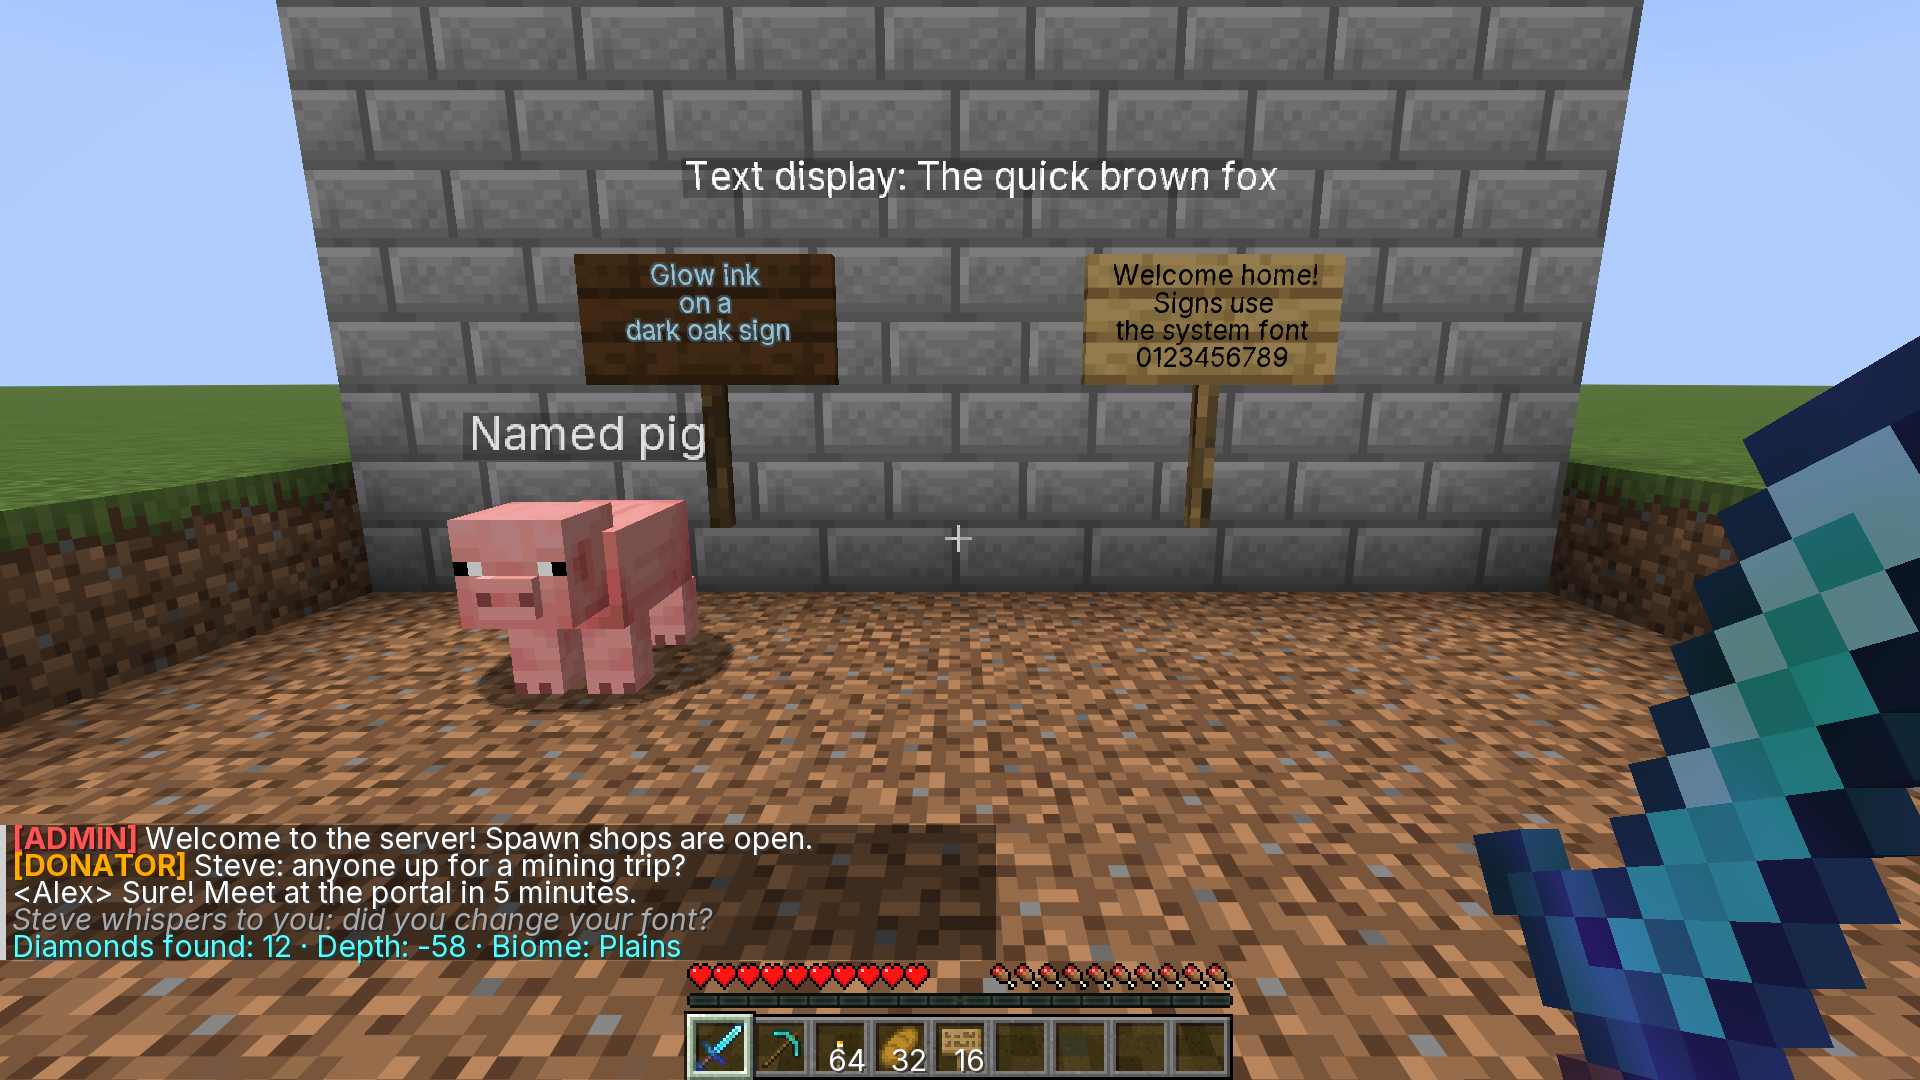
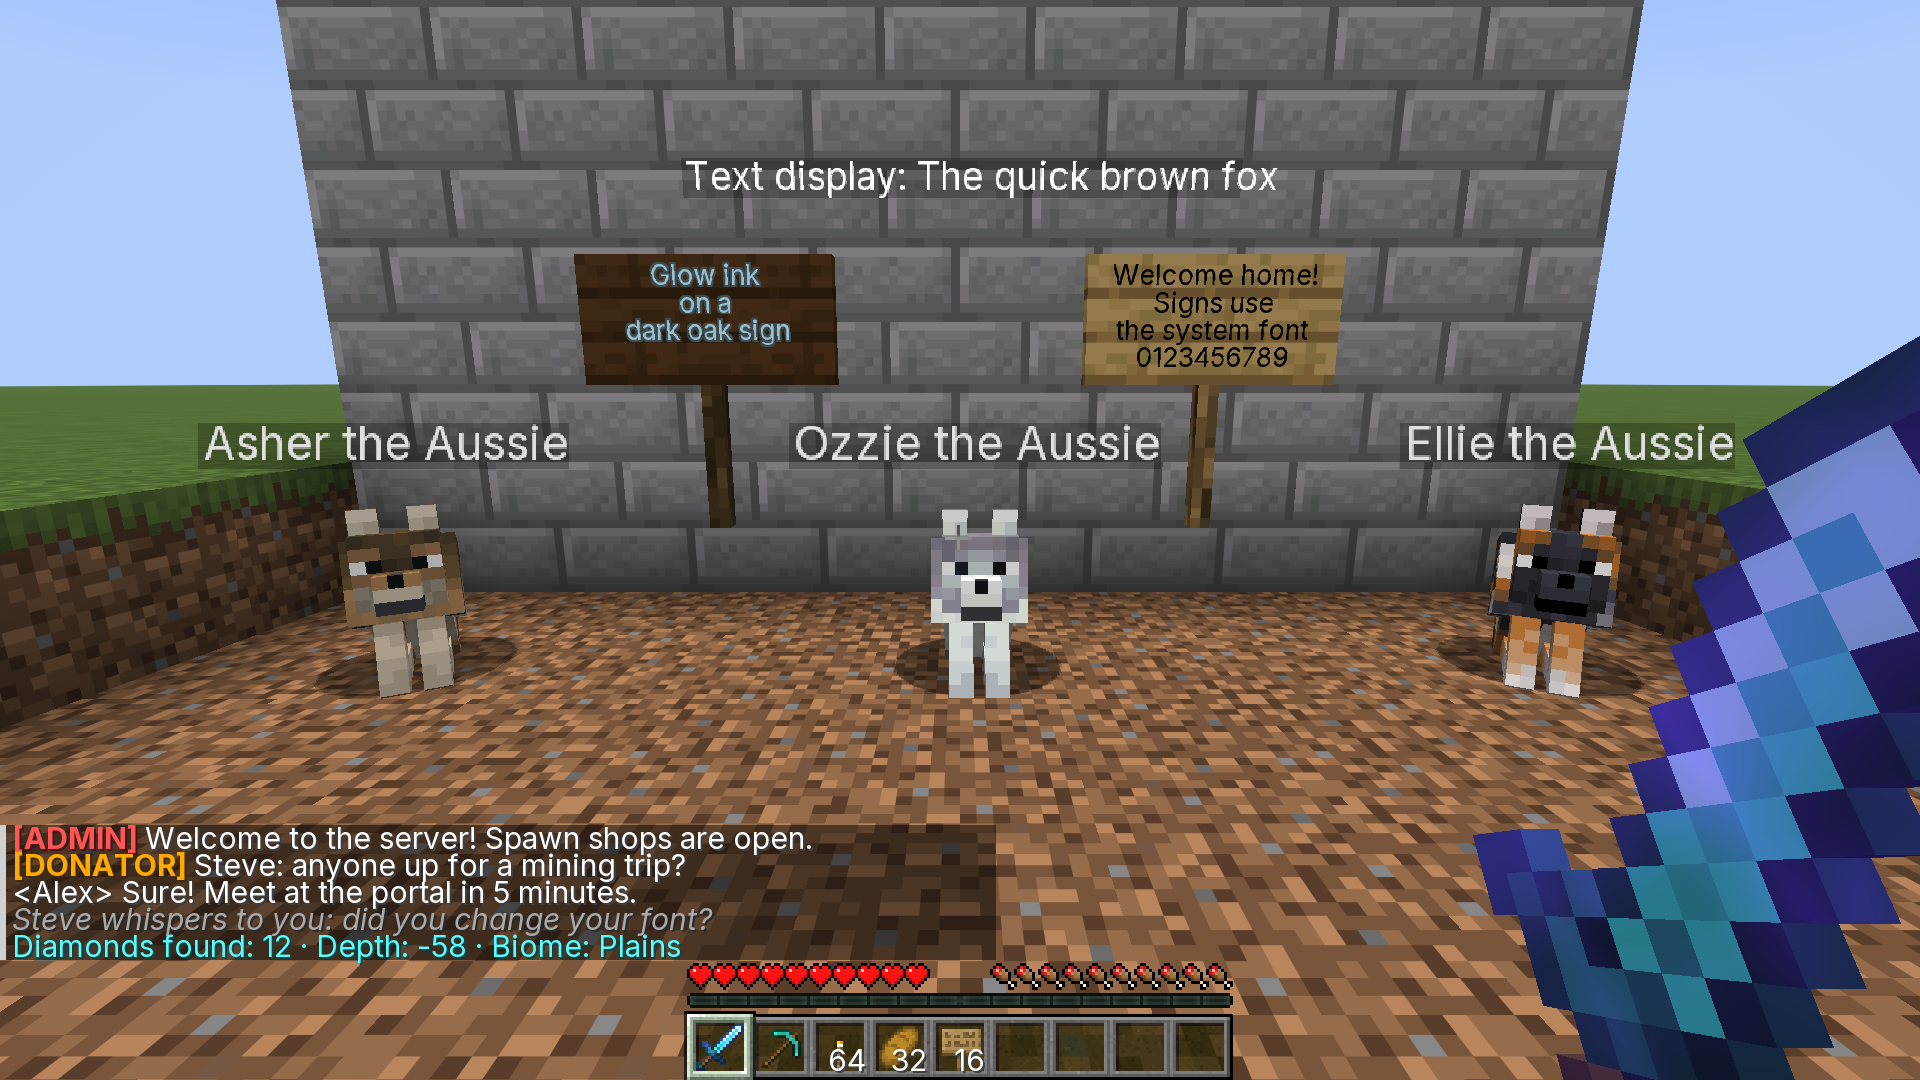
Test world: three named dogs instead of the pig
The in-world text scene (InWorldTextGameTest.buildScene, also used for
the store screenshots) now has three sitting dogs with name tags,
left to right: Asher, Ozzie and Ellie the Aussie, in the wolf coats
closest to their real ones (woods, ashen, spotted). They sit about
three blocks apart so their name tags don't overlap, and each is
turned toward the camera, since at Minecraft's wide field of view a
dog facing straight north looks side-on near the edge of the picture.

Store screenshots 04-06 retaken with the new scene.

diff --git a/src/gametest/java/io/github/jekitchen/fontsys/gametest/InWorldTextGameTest.java b/src/gametest/java/io/github/jekitchen/fontsys/gametest/InWorldTextGameTest.java
@@ -50,7 +50,7 @@ public class InWorldTextGameTest implements FabricClientGameTest {
 		context.waitForScreen(TitleScreen.class);
 	}
 
-	/** A sign, a glowing sign, a text display and a named pig in front of the player at (0.5, -60, -2.5). */
+	/** A sign, a glowing sign, a text display and three named dogs in front of the player at (0.5, -60, -2.5). */
 	static void buildScene(TestSingleplayerContext world) {
 		var server = world.getServer();
 		server.runCommand("time set noon");
@@ -61,7 +61,16 @@ public class InWorldTextGameTest implements FabricClientGameTest {
 		server.runCommand("setblock -1 -60 3 oak_sign[rotation=8]{front_text:{messages:[\"Welcome home!\",\"Signs use\",\"the system font\",\"0123456789\"]}}");
 		server.runCommand("setblock 1 -60 3 dark_oak_sign[rotation=8]{front_text:{color:\"light_blue\",has_glowing_text:1b,messages:[\"Glow ink\",\"on a\",\"dark oak sign\",\"\"]}}");
 		server.runCommand("summon text_display 0.5 -58.2 5.9 {text:\"Text display: The quick brown fox\",background:1073741824,Rotation:[180f,0f]}");
-		server.runCommand("summon pig 2.5 -61 4.5 {CustomName:\"Named pig\",CustomNameVisible:1b,NoAI:1b,Silent:1b,Rotation:[180f,0f]}");
+		// Three dogs sitting side by side, facing the player, about three blocks apart so their name
+		// tags (about three blocks wide each) don't overlap. Left to right: Asher (woods: gray, white
+		// and brown), Ozzie (ashen, the closest coat to black and white) and Ellie (spotted: black,
+		// white and brown).
+		server.runCommand("summon wolf 3.6 -61 4.5 {CustomName:\"Asher the Aussie\",variant:\"minecraft:woods\",CustomNameVisible:1b,Sitting:1b,NoAI:1b,Silent:1b,Rotation:[180f,0f]}");
+		server.runCommand("summon wolf 0.4 -61 4.5 {CustomName:\"Ozzie the Aussie\",variant:\"minecraft:ashen\",CustomNameVisible:1b,Sitting:1b,NoAI:1b,Silent:1b,Rotation:[180f,0f]}");
+		server.runCommand("summon wolf -2.8 -61 4.5 {CustomName:\"Ellie the Aussie\",variant:\"minecraft:spotted\",CustomNameVisible:1b,Sitting:1b,NoAI:1b,Silent:1b,Rotation:[180f,0f]}");
+		// Turn each dog toward the camera. Facing straight north, the outer dogs look side-on:
+		// at Minecraft's wide field of view, a snout near the edge of the picture is stretched outward.
+		server.runCommand("execute as @e[type=wolf] at @s run tp @s ~ ~ ~ facing 0.5 -60.4 -0.6");
 		server.runCommand("tp @a 0.5 -60 -1.5 0 5");
 	}
 }

diff --git a/docs/store/README.md b/docs/store/README.md
@@ -37,7 +37,7 @@ Upload in this order. Each image needs a title; descriptions are optional. Mark 
 | `03-config-preview.png` | Live preview | Search your fonts and preview one (here Georgia) with bold, italic, chat, tooltip and sign samples, and side by side at the next size down and up, before applying it. |
 | `04-world-chat-inter.png` | Chat, HUD, signs and name tags | Inter in the world. Bold rank tags and the italic whisper use Inter's real Bold and Italic faces. |
 | `05-world-chat-vanilla.png` | The same scene in vanilla | Vanilla bold draws each letter twice, one pixel apart. |
-| `06-signs-georgia.png` | Any font, including serifs | Signs, glow ink, a text display and a name tag in Georgia. |
+| `06-signs-georgia.png` | Any font, including serifs | Signs, glow ink, a text display and name tags in Georgia. |
 | `07-tooltip-inter.png` | Tooltips | An enchanted item's tooltip in Inter; the lore line uses Inter's italic face. |
 | `08-keep-georgia.png` | Keep this font? | Before you keep a font, samples show it in a sentence, look-alike characters, bold, italic, chat, a sign and a tooltip. The dialog itself stays in Minecraft's font. |
 
